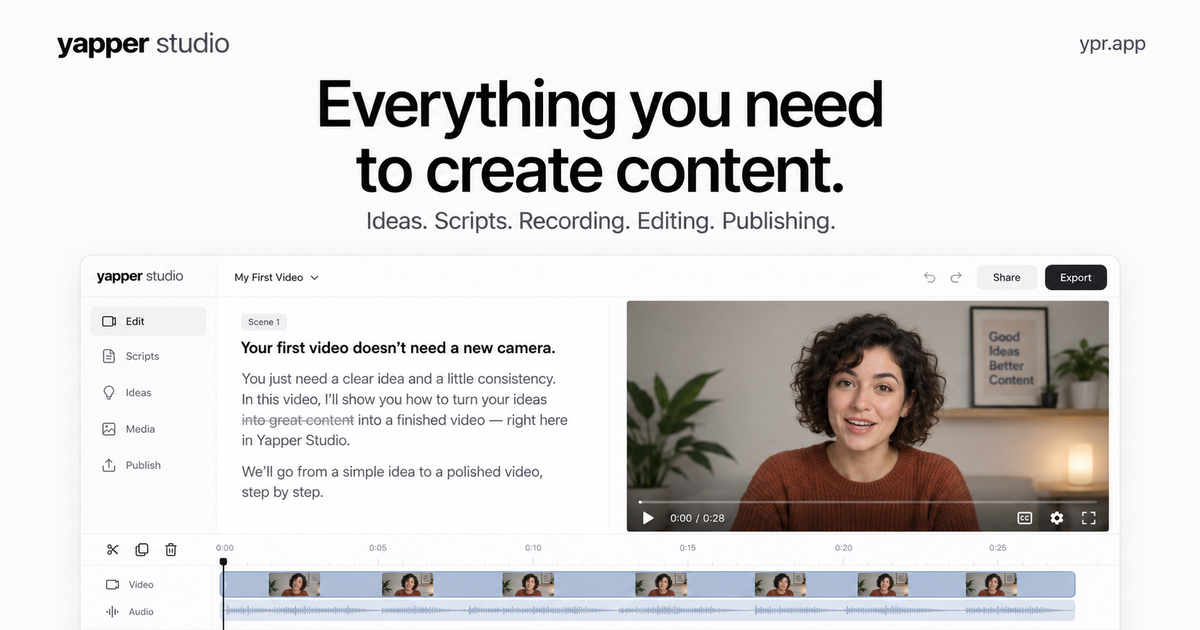
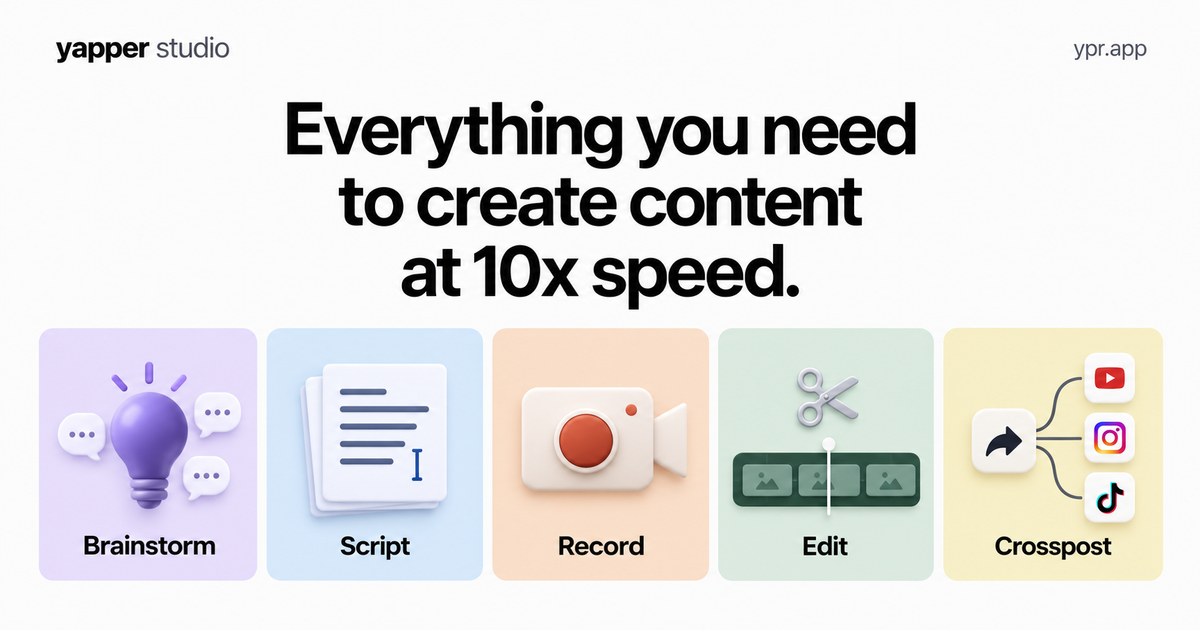
Show five creator workflow tiles on share image

diff --git a/src/lib/marketing-metadata.ts b/src/lib/marketing-metadata.ts
@@ -33,7 +33,7 @@ export function marketingMetadata(
           url: "/og-studio.png",
           width: 1200,
           height: 630,
-          alt: "Yapper Studio. Everything you need to create content, with a transcript video editor preview.",
+          alt: "Yapper Studio. Everything you need to create content at 10x speed. Brainstorm, Script, Record, Edit, Crosspost.",
         },
       ],
     },

diff --git a/src/app/layout.tsx b/src/app/layout.tsx
@@ -51,7 +51,7 @@ export const metadata: Metadata = {
         url: "/og-studio.png",
         width: 1200,
         height: 630,
-        alt: "Yapper Studio. Everything you need to create content, with a transcript video editor preview.",
+        alt: "Yapper Studio. Everything you need to create content at 10x speed. Brainstorm, Script, Record, Edit, Crosspost.",
       },
     ],
   },

diff --git a/docs/social-sharing-image.md b/docs/social-sharing-image.md
@@ -6,21 +6,24 @@ The distinct URL lets crawlers fetch the Studio artwork without reusing the
 old `/og.png` image cache. Platforms may still cache previously shared URLs.
 
 The artwork was made with the built-in image generation tool, then resized
-and compressed with Sharp. It is an illustrative product composition, not
-a screenshot or customer testimonial.
+and compressed with Sharp. It illustrates the five stages of the creator
+workflow in colored tiles.
 
 ## Generation brief
 
 Create a clean Yapper Studio link-preview image that matches the homepage:
-an almost-white background, black system-sans typography, quiet gray
-supporting copy, generous margins, and a single front-facing video editor
-below the headline. Use the exact headline “Everything you need” / “to
-create content.”, the wordmark “yapper studio”, the URL “ypr.app”, and the
-supporting line “Ideas. Scripts. Recording. Editing. Publishing.” The editor
-combines a transcript, a creator speaking to camera, and a muted blue-gray
-timeline. Keep the main headline legible at thumbnail size. Avoid the old
-orange sphere, speech-practice messaging, rainbow colors, ornamental
-gradients, floating badges, device frames, and watermarks.
+an almost-white background, black system-sans typography, generous margins,
+the wordmark “yapper studio”, and the URL “ypr.app”. Use the exact three-line
+headline “Everything you need” / “to create content” / “at 10x speed.” Below
+it, arrange five equally sized rounded tiles with matching label baselines:
+“Brainstorm” on lilac with an idea bulb and conversation bubbles, “Script”
+on sky blue with a script sheet, “Record” on apricot with a camera, “Edit”
+on sage with scissors and a timeline, and “Crosspost” on butter yellow with
+an outgoing arrow connected to YouTube, Instagram and TikTok. Use coherent,
+restrained tactile illustrations. Keep the headline and labels legible at
+thumbnail size. Avoid extra copy, the old orange sphere, speech-practice
+messaging, saturated rainbow backgrounds, ornamental glows, floating badges,
+device frames, and watermarks.
 
 ## Updating it
 
